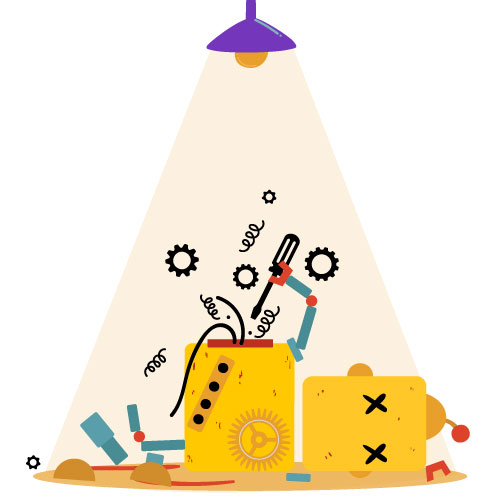
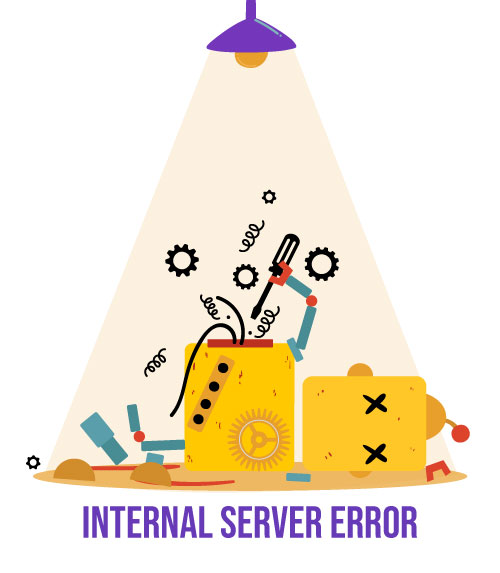
Mini Bugs Fixed

diff --git a/frontend/rentACar/src/pages/admin/components/User/UserTable.jsx b/frontend/rentACar/src/pages/admin/components/User/UserTable.jsx
@@ -89,7 +89,7 @@ export default function UserTable() {
       toastError("User ID bulunamadı!");
     } else {
       try {
-        await axiosInstance.delete(`api/v1/admin/users/${id}`);
+        await axiosInstance.delete(`api/v1/users/${id}`);
         toastSuccess(t("userIdNotFound"));
         dispatch(fetchAllUserData());
       } catch (error) {
@@ -113,7 +113,7 @@ export default function UserTable() {
       };
 
       try {
-        await axiosInstance.put(`api/v1/admin/users/${id}`, updatedData);
+        await axiosInstance.put(`api/v1/users/${id}`, updatedData);
         toastSuccess(t("usersSuccessUpdate"));
         setOpen(false);
         dispatch(fetchAllUserData());
@@ -147,7 +147,7 @@ export default function UserTable() {
       };
 
       try {
-        await axiosInstance.post("api/v1/admin/users", data);
+        await axiosInstance.post("api/v1/users", data);
         toastSuccess(t("userSuccessAdded"));
         setOpen(false);
         dispatch(fetchAllUserData());

diff --git a/frontend/rentACar/src/components/ui/ErrorPage.jsx b/frontend/rentACar/src/components/ui/ErrorPage.jsx
@@ -3,18 +3,18 @@ import { Container } from "reactstrap";
 import Helmet from "../Helmet";
 import { useTranslation } from "react-i18next";
 
-const ErrorPage = ({ errorMessage }) => {
+import error from "../../assets/all-images/error.jpg";
+
+const ErrorPage = () => {
 
   const { t } = useTranslation();
 
-  console.log(errorMessage);
+  
   return (
     <Helmet title={t("error")}>
       <section>
-        <Container className="d-flex justify-content-center">
-          <div className="d-block flex-column align-items-center">
-            <h2 className="section__title text-center">{errorMessage}</h2>
-          </div>
+      <Container className="d-flex justify-content-center">
+          <img width={350} src={error} />
         </Container>
       </section>
     </Helmet>

diff --git a/frontend/rentACar/src/redux/actions/admin/fetchAllUserData.js b/frontend/rentACar/src/redux/actions/admin/fetchAllUserData.js
@@ -3,7 +3,7 @@ import axiosInstance from '../../utilities/interceptors/axiosInterceptors';
 
 
 const fetchAllUserData = createAsyncThunk("data/fetchAllUserData", async () => {
-    const response = await axiosInstance.get(`api/v1/admin/users/getAll`);
+    const response = await axiosInstance.get(`api/v1/users/getAll`);
     return response.data;
   });
 

diff --git a/frontend/rentACar/src/redux/actions/fetchUserData.js b/frontend/rentACar/src/redux/actions/fetchUserData.js
@@ -3,7 +3,7 @@ import axiosInstance from '../utilities/interceptors/axiosInterceptors';
 
 
 const fetchUserData = createAsyncThunk("data/fetchUserData", async () => {
-    const response = await axiosInstance.get(`api/v1/admin/users`);
+    const response = await axiosInstance.get(`api/v1/users`);
     return response.data;
   });
 

diff --git a/frontend/rentACar/src/pages/Home.jsx b/frontend/rentACar/src/pages/Home.jsx
@@ -30,7 +30,7 @@ const Home = () => {
   if (status === "LOADING") {
     return <Loading />;
   }else if (status === "FAIL"){
-    return <ErrorPage errorMessage={error} />
+    return <ErrorPage />
   }
 
 

diff --git a/frontend/rentACar/src/redux/utilities/interceptors/axiosInterceptors.js b/frontend/rentACar/src/redux/utilities/interceptors/axiosInterceptors.js
@@ -79,7 +79,7 @@ axiosInstance.interceptors.response.use(
         return Promise.reject(refreshError);
       }
     }
-
+    window.location.href = "/login";
     return Promise.reject(error);
   }
 );

diff --git a/backend/src/main/java/com/tobeto/RentACar/security/controllers/AdminController.java b/backend/src/main/java/com/tobeto/RentACar/security/controllers/AdminController.java
@@ -1,17 +1,23 @@
 package com.tobeto.RentACar.security.controllers;
 
+import com.tobeto.RentACar.services.abstracts.UserService;
+import com.tobeto.RentACar.services.dtos.requests.user.UpdateUserRequest;
 import io.swagger.v3.oas.annotations.Hidden;
 import io.swagger.v3.oas.annotations.Operation;
 import io.swagger.v3.oas.annotations.responses.ApiResponse;
 import io.swagger.v3.oas.annotations.security.SecurityRequirement;
 import io.swagger.v3.oas.annotations.tags.Tag;
+import jakarta.validation.Valid;
+import lombok.RequiredArgsConstructor;
 import org.springframework.security.access.prepost.PreAuthorize;
 import org.springframework.web.bind.annotation.*;
 
 @RestController
 @RequestMapping("/api/v1/admin")
 @Tag(name = "Admin Controller", description = "Admin Controller")
+@RequiredArgsConstructor
 public class AdminController {
+    private  final UserService userService;
 
     @Operation(
             summary = "This is a summary for Admin get endpoint",
@@ -38,9 +44,9 @@ public class AdminController {
         return "POST:: Admin Controller";
     }
 
-    @PutMapping
-    public String put() {
-        return "PUT:: Admin Controller";
+    @PutMapping("/{id}")
+    public void update(@RequestBody @Valid UpdateUserRequest request, @PathVariable int id) {
+        userService.update(request, id);
     }
 
     @DeleteMapping

diff --git a/backend/src/main/java/com/tobeto/RentACar/security/config/SecurityConfiguration.java b/backend/src/main/java/com/tobeto/RentACar/security/config/SecurityConfiguration.java
@@ -45,6 +45,7 @@ public class SecurityConfiguration {
                                                 "/api/v1/admin/cars/getAll",
                                                 "/api/v1/admin/cars/getById/**",
                                                 "/api/v1/userImage/**",
+                                                "/api/v1/users/getAll",
                                                 "/api/v1/admin/slider/getAll",
                                                 "/api/v1/sliderImage/**",
                                                 "/api/v1/carImage/**",

diff --git a/backend/src/main/java/com/tobeto/RentACar/controllers/UsersController.java b/backend/src/main/java/com/tobeto/RentACar/controllers/UsersController.java
@@ -17,7 +17,7 @@ import java.security.Principal;
 import java.util.List;
 
 @RestController
-@RequestMapping("api/v1/admin/users")
+@RequestMapping("api/v1/users")
 @AllArgsConstructor
 //@CrossOrigin
 @Tag(name = "Users Controller", description = "Users Endpoints")
@@ -48,6 +48,7 @@ public class UsersController {
     public void add(@RequestBody @Valid AddUserRequest request) {
         userService.add(request);
     }
+
 
     @PatchMapping("/{id}")
     public void update(@RequestBody @Valid UpdateUserRequest request, @PathVariable int id) {
